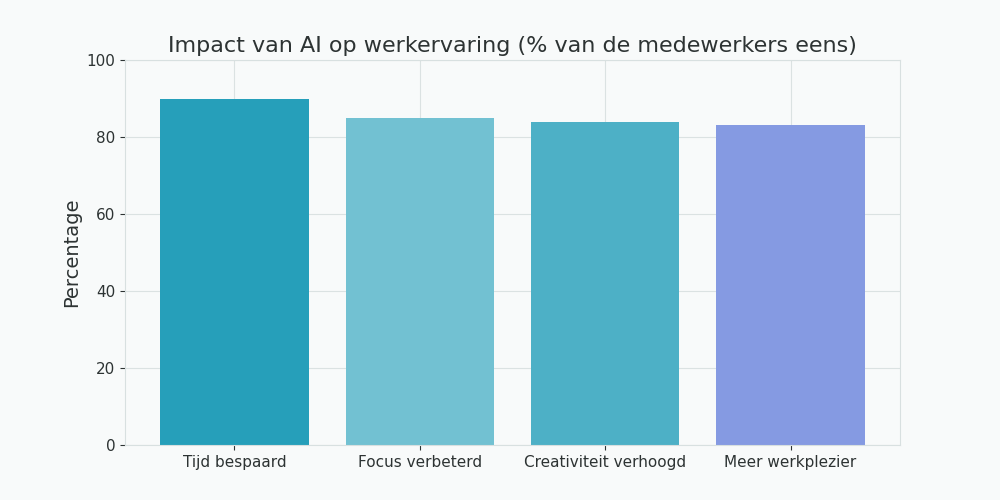
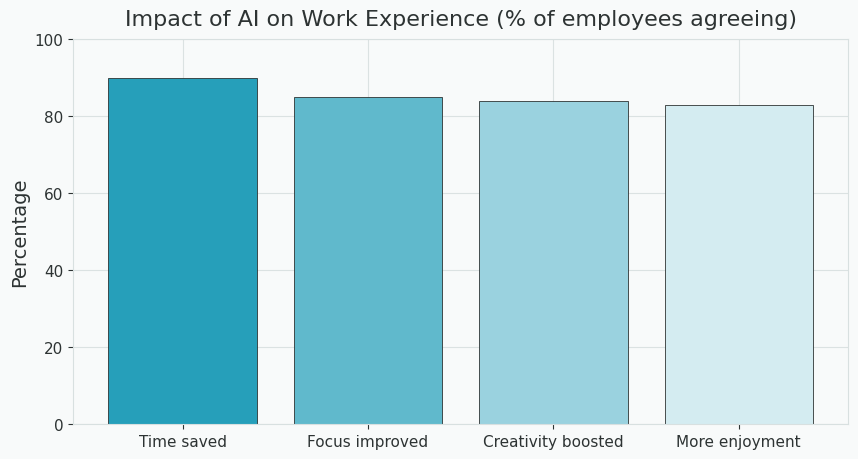
employee adoption localised and colours updated

diff --git a/CCPlots/implementation/EmployeeAIAdoption.py b/CCPlots/implementation/EmployeeAIAdoption.py
@@ -1,33 +1,49 @@
 import matplotlib.pyplot as plt
 
 from CCPlots.PlotExample import PlotExample
-from CCPlots.config import BITROOT_PALETTE, apply_bitroot_style, output_path
+from CCPlots.config import BITROOT_PALETTE, apply_bitroot_style, output_path, probability_color
 
-# Colour scheme using consistent Bitroot palette shades
-BAR_C = [
-        BITROOT_PALETTE["primary"],
-        BITROOT_PALETTE["primary_light"],
-        BITROOT_PALETTE["primary_soft"],
-        BITROOT_PALETTE["secondary_light"],
-    ]
+TEXT_BY_LOCALE = {
+    "en": {
+        "title": "Impact of AI on Work Experience (% of employees agreeing)",
+        "ylabel": "Percentage",
+        "categories": ["Time saved", "Focus improved", "Creativity boosted", "More enjoyment"],
+    },
+    "nl": {
+        "title": "Impact van AI op werkervaring (% van de medewerkers eens)",
+        "ylabel": "Percentage",
+        "categories": ["Tijd bespaard", "Focus verbeterd", "Creativiteit verhoogd", "Meer werkplezier"],
+    },
+}
 
 class EmployeeAIAdoption(PlotExample):
 
     def main(self):
-        # Data for the bar chart
-        categories = ['Tijd bespaard', 'Focus verbeterd', 'Creativiteit verhoogd', 'Meer werkplezier']
         values = [90, 85, 84, 83]
 
-        # Create the bar chart
-        plt.figure(figsize=(10, 5), facecolor=BITROOT_PALETTE["background"])
-        ax = plt.gca()
-        ax.set_facecolor(BITROOT_PALETTE["background"])
-        plt.bar(categories, values, color=BAR_C)
-        plt.title('Impact van AI op werkervaring (% van de medewerkers eens)', color=BITROOT_PALETTE["text"])
-        plt.ylabel('Percentage', color=BITROOT_PALETTE["text"])
-        plt.ylim(0, 100)
-        apply_bitroot_style(ax)
-        plt.savefig(output_path('employee_ai_adoption.png'))
+        for locale, labels in (("nl", TEXT_BY_LOCALE["nl"]), ("en", TEXT_BY_LOCALE["en"])):
+            fname = f"employee_ai_adoption{'_NL' if locale == 'nl' else ''}.png"
+            categories = labels["categories"]
+
+            n = len(values)
+            bar_colors = [probability_color(i / (n - 1) if n > 1 else 0,
+                                            "primary", "primary_pale")
+                          for i in range(n)]
+
+            fig, ax = plt.subplots(figsize=(10, 5),
+                                   facecolor=BITROOT_PALETTE["background"])
+            ax.set_facecolor(BITROOT_PALETTE["background"])
+            ax.bar(categories, values, color=bar_colors,
+                   edgecolor=BITROOT_PALETTE["text"], linewidth=0.6)
+
+            ax.set_ylim(0, 100)
+            ax.set_ylabel(labels["ylabel"], color=BITROOT_PALETTE["text"])
+            ax.set_title(labels["title"], color=BITROOT_PALETTE["text"], pad=10)
+            apply_bitroot_style(ax)
+
+            fig.savefig(output_path(fname), bbox_inches="tight", pad_inches=0.1)
+            plt.close(fig)
+
 
 if __name__ == '__main__':
     EmployeeAIAdoption().main()
